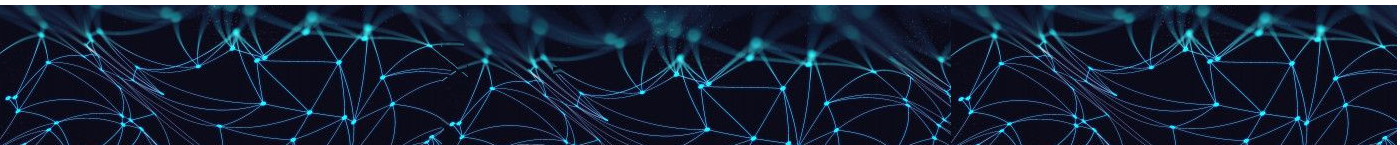
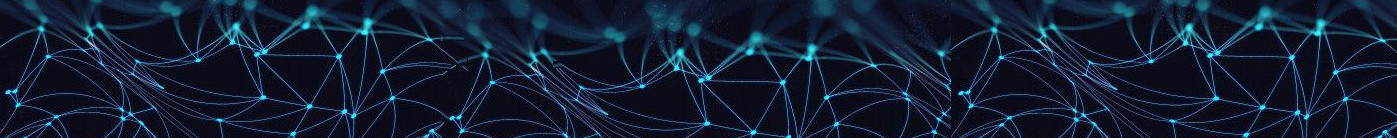
fix: cut white border of the headline's image

diff --git a/src/main/webapp/templates/product/index.html b/src/main/webapp/templates/product/index.html
@@ -33,7 +33,7 @@
 
 <div class="headerLine"; id="myHeader">
     <h1 id="headText">Codecool Shop</h1>
-    <span><p><a class="cart" href="/cart"> <img style="width: 80px; margin-right: 45px; vertical-align: middle;
+    <span><p><a class="cart" href="/cart"> <img style="width: 50px; margin-right: 45px; vertical-align: middle;
     float: right" src="http://placehold.it/400x250/000/fff" th:attr="src='/static/img/cart.png'" alt="" /></a></p></span>
 </div>
 

diff --git a/src/main/webapp/static/css/custom.css b/src/main/webapp/static/css/custom.css
@@ -63,7 +63,7 @@
 .headerLine {
     background-image: url("/static/img/darknet2_narrow.jpg") !important;
     color: #ffffff;
-    height: 150px;
+    height: 138px;
     width: 100%;
 }
 
